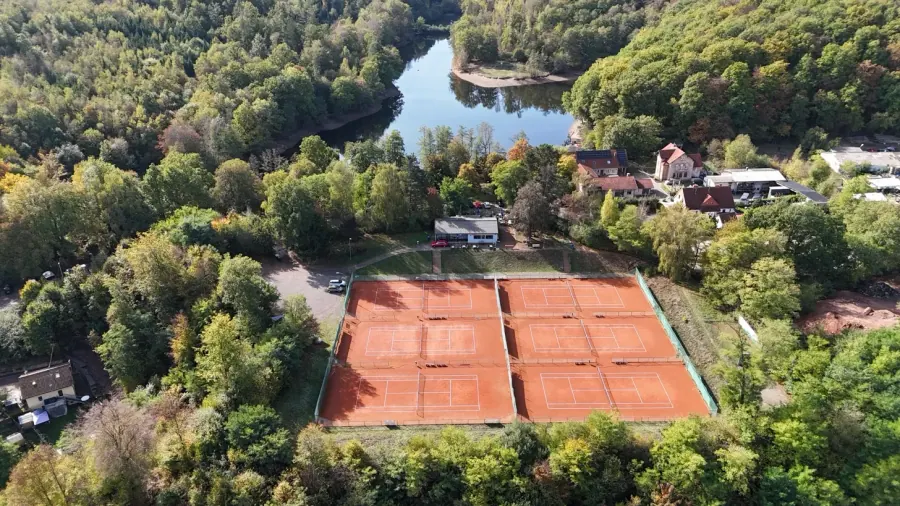
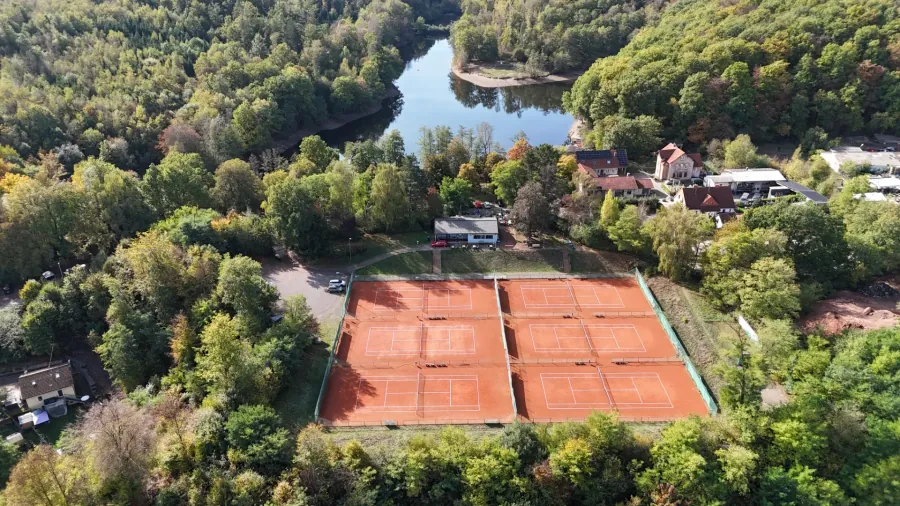
Hero: Originalfoto 1920x1080, 16:10-Ausschnitt auf Plaetze und Clubheim, scharfe Varianten (520-1500w)

diff --git a/index.html b/index.html
@@ -109,7 +109,7 @@
       </div>
 
       <figure class="hero-photo fade" style="--d:.35s">
-        <img src="assets/img/m/anlage-am-itzenplitzer-weiher-luftbild.webp" srcset="assets/img/thumb/anlage-am-itzenplitzer-weiher-luftbild.webp 640w, assets/img/m/anlage-am-itzenplitzer-weiher-luftbild.webp 900w, assets/img/anlage-am-itzenplitzer-weiher-luftbild.webp 1456w" sizes="(max-width: 980px) 94vw, 46vw" alt="Luftaufnahme der Anlage des TC Grün-Weiss Heiligenwald: sechs Sandplätze und das Clubheim zwischen Wald und Itzenplitzer Weiher" width="1456" height="819" fetchpriority="high" decoding="async">
+        <img src="assets/img/hero-anlage-1100.webp" srcset="assets/img/hero-anlage-520.webp 520w, assets/img/hero-anlage-760.webp 760w, assets/img/hero-anlage-1100.webp 1100w, assets/img/hero-anlage-1500.webp 1500w" sizes="(max-width: 980px) 94vw, 46vw" alt="Luftaufnahme der Anlage des TC Grün-Weiss Heiligenwald: sechs Sandplätze und das Clubheim zwischen Wald und Itzenplitzer Weiher" width="1500" height="938" fetchpriority="high" decoding="async">
       </figure>
 
     </div>

diff --git a/css/style.css b/css/style.css
@@ -380,8 +380,8 @@ a.sp:hover{filter:none;opacity:1;transform:translateY(-4px)}
 }
 
 /* ---------- Hero: Luftbild der Anlage ---------- */
-.hero-photo{margin:0;position:relative;z-index:3;aspect-ratio:5/4;border-radius:34px;overflow:hidden;background:#dfe6d6;border:1px solid rgba(255,255,255,.75);box-shadow:0 40px 90px rgba(15,77,42,.26),0 8px 24px rgba(15,77,42,.14)}
-.hero-photo img{position:absolute;inset:0;width:100%;height:100%;object-fit:cover;object-position:50% 58%;max-width:none}
+.hero-photo{margin:0;position:relative;z-index:3;aspect-ratio:16/10;border-radius:34px;overflow:hidden;background:#dfe6d6;border:1px solid rgba(255,255,255,.75);box-shadow:0 40px 90px rgba(15,77,42,.26),0 8px 24px rgba(15,77,42,.14)}
+.hero-photo img{position:absolute;inset:0;width:100%;height:100%;object-fit:cover;object-position:50% 50%;max-width:none}
 @media (max-width:980px){.hero-photo{border-radius:26px;margin-top:6px}}
 
 /* ---------- Spiel bei uns: Schläger schlägt auf Klick eine Vorhand ---------- */
